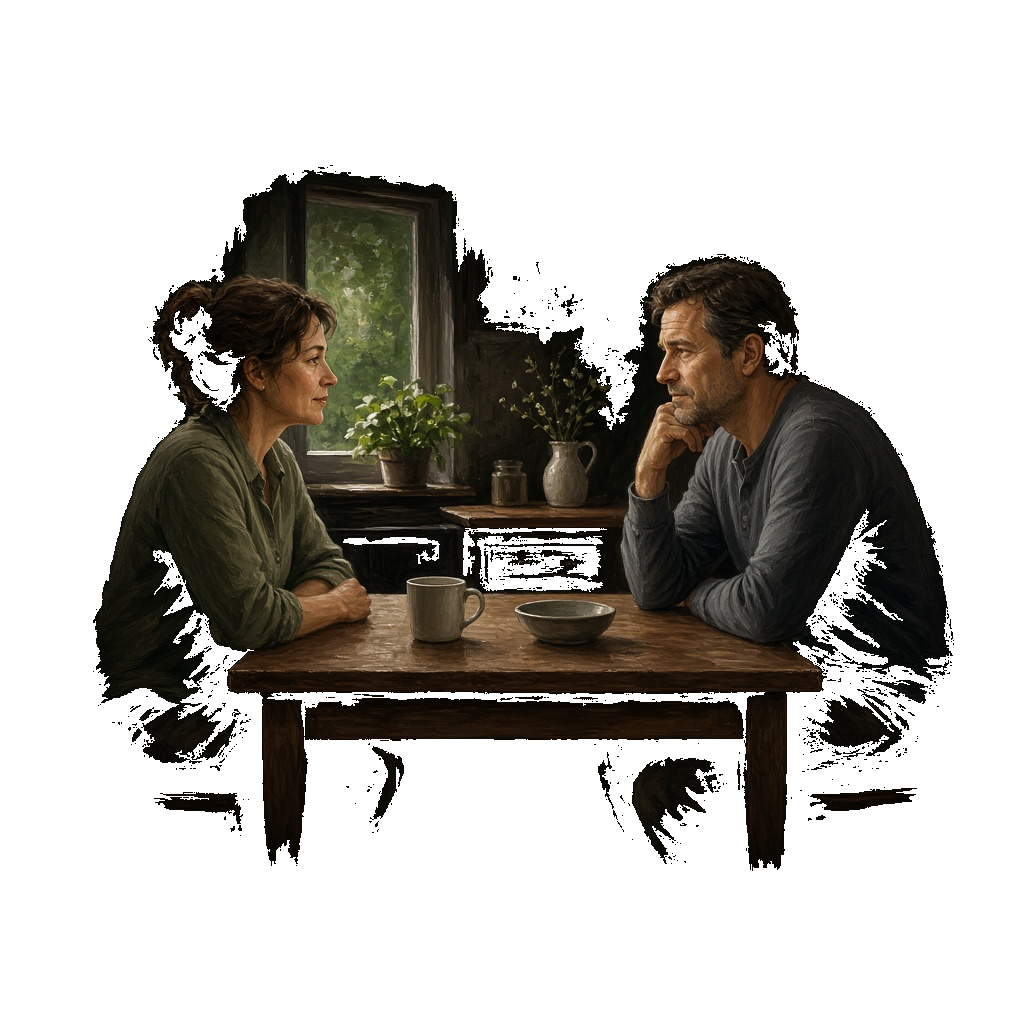
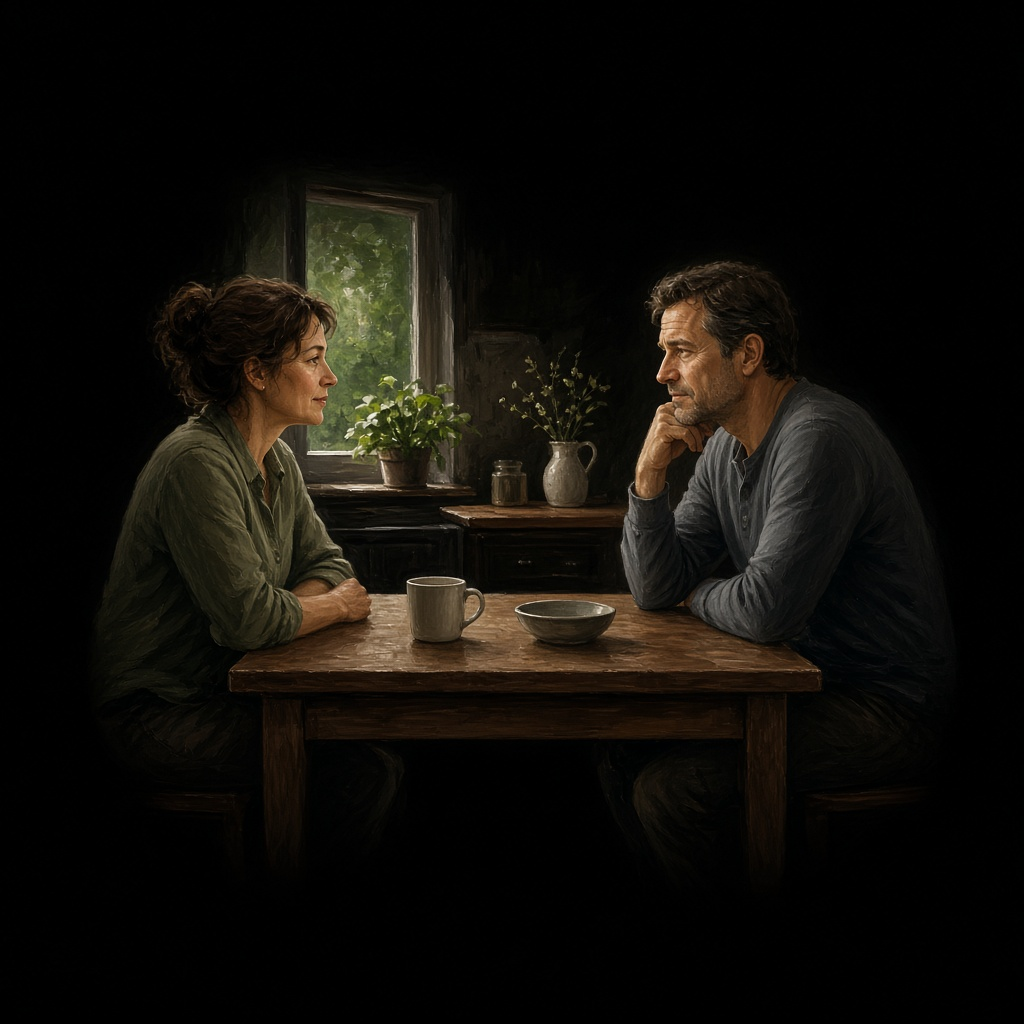
Вернул целые картинки здоровых и идеальных отношений.

diff --git a/shzo/slidy/index.html b/shzo/slidy/index.html
@@ -637,9 +637,9 @@ html,body{background:var(--paper);color:var(--ink);font-family:Figtree,system-ui
 <div class="stack">
 <p class="caps lead">А последний урок у нас будет с вами посвящён очень важной теме, потому что мы с вами разберём, чем</p>
 <div class="frames hinge">
-<figure><img src="pic/healthy.png?v=4" alt=""><figcaption>здоровые отношения</figcaption></figure>
+<figure><img src="pic/healthy.png?v=5" alt=""><figcaption>здоровые отношения</figcaption></figure>
 <p class="caps"><span class="y">отличаются от</span></p>
-<figure><img src="pic/ideal.png?v=4" alt=""><figcaption>идеальных отношений</figcaption></figure>
+<figure><img src="pic/ideal.png?v=5" alt=""><figcaption>идеальных отношений</figcaption></figure>
 </div>
 </div>
 </section>
